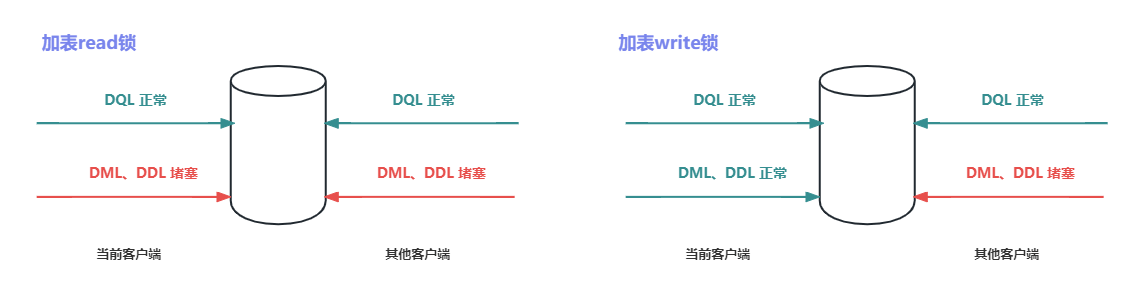
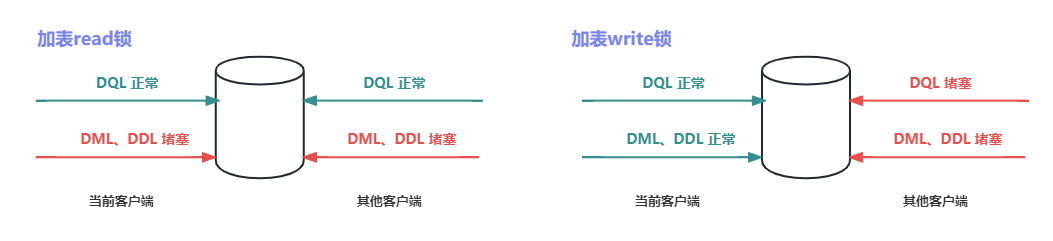
mysql

diff --git a/md/mysql/lock.md b/md/mysql/lock.md
@@ -35,18 +35,16 @@ unlock tables;
 
 
 ### 三、表级锁
-#### 1. 分类
-![lock1](https://fgq233.github.io/imgs/mysql/lock1.png)
-
 表级锁分为3类
 * 表锁
   * 读锁：也叫共享锁，加了读锁后，加锁的当前会话以及其它会话**只能进行读操作**
   * 写锁：也叫排他锁，加了写锁之后其它会话**不能进行读写操作**
 * 元数据锁（meta data lock, MDL）
 * 意向锁
-  
 
-#### 2. 表锁
+#### 1. 表锁
+![lock2](https://fgq233.github.io/imgs/mysql/lock2.png)
+
 ```
 -- 加读锁、写锁
 lock tables 表名... read;
@@ -55,6 +53,10 @@ lock tables 表名... write;
 -- 释放锁
 unlock tables;
 ```
+  
+
+#### 2. 元数据锁
+
 
 
 
